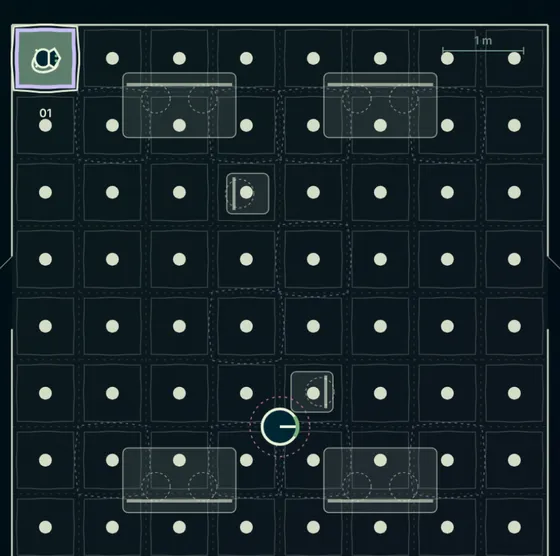
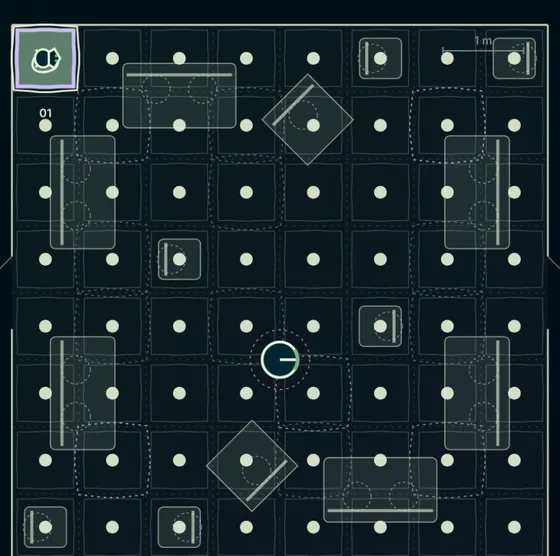
Recapture the project II cover and FIG.02/09/10; add the cohabit rule table
The rule fixes (§14.30) changed the 2-14 free demo and 2-15 runs, so
the cover and three frame sets no longer matched. Event times were
found by running the same bench configs in Node, then captured with
the fake-clock script.

- Home cover: 130 s (three groups seated with tables down, a calico on
  a row of lowered units mid-room).
- FIG.02 (2-14 plan): visitor sits at 1:10; the cat follows two steps,
  goes down to the floor twice, reaches the unit in front of the seat
  at 4:48 and steps onto the table at 5:00.
- FIG.09 (2-15 detail): the pair on the left-hand sofa sit at 8.85 s
  and stand at 1220.35 s; new zoom target.
- FIG.10: front view instead of side view, since with the 20-seat
  layout the sofa backs hide every coffee table from the side.

New doc 项目二_人猫同台_规则总表.md lists every current rule under
people, cats and space, with the numbers and where each number comes
from (sources, calibration, author's decision, geometry, demo value),
plus the event definitions, the comparison spaces, how the case-study
chart differs, and what is not yet in the rules.

Claude-Session: https://claude.ai/code/session_01RPazAerUYRQ9dZ99NQWedh

diff --git a/src/lib/site/case-frames.ts b/src/lib/site/case-frames.ts
@@ -59,18 +59,18 @@ export const CASE_FRAMES: Record<string, FrameSet> = {
     tw: 560,
     cols: 4,
     caption: {
-      zh: '一位访客、一只猫的一场（实验 2-14，平面）。实心圆是坐着的人，绿色虚线是空间给猫铺的路，紫色点线框是座位前方那台',
-      en: 'One visitor and one cat (Lab 2-14, plan). A filled circle is a seated person, the green dashes are the route the space lays for the cat, and the dotted purple square is the unit in front of the seat',
+      zh: '一位访客、一只猫的一场（实验 2-14，平面）。实心圆是坐着的人，绿色虚线是空间给猫铺的路，紫色点线框是座位前方那台。猫走不走、什么时候下地，由猫自己决定',
+      en: 'One visitor and one cat (Lab 2-14, plan). A filled circle is a seated person, the green dashes are the route the space lays for the cat, and the dotted purple square is the unit in front of the seat. Whether the cat follows, and when it goes down to the floor, is up to the cat',
     },
     frames: [
       { file: 't000', t: { zh: '0:00', en: '0:00' }, note: { zh: '访客在走，猫在左上角的台上', en: 'the visitor walks, the cat is on a unit in the top-left corner' } },
-      { file: 't016', t: { zh: '0:16', en: '0:16' }, note: { zh: '坐下，面前那台落成茶几（42 cm），猫脚下铺出第一步', en: 'sits down, the unit in front becomes a coffee table (42 cm) and the first step is laid from the cat' } },
-      { file: 't060', t: { zh: '1:00', en: '1:00' }, note: { zh: '猫沿着递过来的台一步一步走', en: 'the cat walks along the units offered, one at a time' } },
-      { file: 't160', t: { zh: '2:40', en: '2:40' }, note: { zh: '路在右上角拐下来', en: 'the route turns down at the top right' } },
-      { file: 't200', t: { zh: '3:20', en: '3:20' }, note: { zh: '猫往座位这边下来', en: 'the cat comes down towards the seat' } },
-      { file: 't220', t: { zh: '3:40', en: '3:40' }, note: { zh: '离座位前方那台还差一步', en: 'one step from the unit in front of the seat' } },
-      { file: 't240', t: { zh: '4:00', en: '4:00' }, note: { zh: '猫到了座位前方那台', en: 'the cat reaches the unit in front of the seat' } },
-      { file: 't270', t: { zh: '4:30', en: '4:30' }, note: { zh: '访客起身离开，桌子收回，猫下了台', en: 'the visitor leaves, the table goes up, the cat has come down off the units' } },
+      { file: 't071', t: { zh: '1:11', en: '1:11' }, note: { zh: '在中间那把餐椅上坐下，面前那台落成餐桌（74 cm），猫脚下铺出第一步', en: 'sits on the dining chair in the middle, the unit in front becomes a table (74 cm) and the first step is laid from the cat' } },
+      { file: 't100', t: { zh: '1:40', en: '1:40' }, note: { zh: '猫沿着递过来的台走了两步', en: 'the cat has walked two of the units offered' } },
+      { file: 't160', t: { zh: '2:40', en: '2:40' }, note: { zh: '猫自己跳下了地，空间把它身边那台落下，等它跳回来', en: 'the cat jumps down to the floor on its own, and the space lowers the unit beside it for it to climb back' } },
+      { file: 't175', t: { zh: '2:55', en: '2:55' }, note: { zh: '猫在地上走到另一头，从那里上了台，路改从这里铺', en: 'the cat crosses the room on the floor and climbs up at the far end, and the route is laid again from there' } },
+      { file: 't283', t: { zh: '4:43', en: '4:43' }, note: { zh: '又下了一次地之后，猫回到访客身后那台，路绕到他面前那台还要三步', en: 'after one more trip to the floor the cat is back on the unit behind the visitor, three steps from the unit in front of him' } },
+      { file: 't288', t: { zh: '4:48', en: '4:48' }, note: { zh: '猫到了座位前方那台', en: 'the cat reaches the unit in front of the seat' } },
+      { file: 't300', t: { zh: '5:00', en: '5:00' }, note: { zh: '猫又挪上了桌子，就在访客面前', en: 'the cat then steps onto the table, right in front of the visitor' } },
     ],
   },
   // FIG.03 · 一条带：四张键谱同一次收缩（Lab 2-1）
@@ -171,7 +171,7 @@ export const CASE_FRAMES: Record<string, FrameSet> = {
       { file: 'o5', t: { zh: '方', en: 'square' } },
     ],
   },
-  // FIG.09 · 在房间里（Lab 2-15，前排沙发，放大）：落下、成形、收回
+  // FIG.09 · 在房间里（Lab 2-15，左边那张双人沙发，放大）：落下、成形、收回。2026-11-08 按规则审阅后的规则重截（§14.30）
   'room-cycle': {
     project: 'letting-agent',
     lab: '2-15',
@@ -180,19 +180,19 @@ export const CASE_FRAMES: Record<string, FrameSet> = {
     tw: 480,
     cols: 3,
     caption: {
-      zh: '前排沙发上两位访客坐下又起身，面前那台落下当茶几再收回（实验 2-15，局部）',
-      en: 'Two visitors on the front sofa sit down and later stand, and the unit in front of them comes down as a coffee table and goes back up (Lab 2-15, detail)',
+      zh: '左边那张双人沙发上，同组两位访客坐下，面前那台落下当茶几；二十分钟后两人起身，桌子收回（实验 2-15，局部）',
+      en: 'Two visitors in one party sit down on the left-hand sofa and the unit in front of them comes down as a coffee table; twenty minutes later they stand and it goes back up (Lab 2-15, detail)',
     },
     frames: [
-      { file: 't011_00', t: { zh: '0:11.0', en: '0:11.0' }, note: { zh: '两人走到沙发前，面前的单元还收在天花板下', en: 'two visitors reach the sofa, the unit in front of it still stowed under the ceiling' } },
-      { file: 't011_45', t: { zh: '0:11.5', en: '0:11.5' }, note: { zh: '坐下，面前那台沿芯落下', en: 'they sit, and the unit in front comes down its core' } },
-      { file: 't011_90', t: { zh: '0:11.9', en: '0:11.9' }, note: { zh: '落到茶几高度，收缩成形', en: 'at coffee-table height it contracts and forms' } },
-      { file: 't012_50', t: { zh: '0:12.5', en: '0:12.5' }, note: { zh: '茶几成形', en: 'the coffee table has formed' } },
-      { file: 't140_80', t: { zh: '2:20.8', en: '2:20.8' }, note: { zh: '两人起身，桌子往上收。左边沙发上的人身边那台抽中了整圈两层', en: 'they stand, and the table rises. The unit beside the visitor on the left sofa came down as two levels all round' } },
-      { file: 't142_60', t: { zh: '2:22.6', en: '2:22.6' }, note: { zh: '收回天花板下', en: 'back under the ceiling' } },
+      { file: 't008_75', t: { zh: '0:08.8', en: '0:08.8' }, note: { zh: '两人走到沙发前，面前的单元还收在天花板下', en: 'two visitors reach the sofa, the unit in front of it still stowed under the ceiling' } },
+      { file: 't009_20', t: { zh: '0:09.2', en: '0:09.2' }, note: { zh: '坐下，面前那台沿芯落下', en: 'they sit, and the unit in front comes down its core' } },
+      { file: 't009_65', t: { zh: '0:09.7', en: '0:09.7' }, note: { zh: '落到茶几高度，收缩成形', en: 'at coffee-table height it contracts and forms' } },
+      { file: 't010_25', t: { zh: '0:10.3', en: '0:10.3' }, note: { zh: '茶几成形', en: 'the coffee table has formed' } },
+      { file: 't1220_85', t: { zh: '20:20.9', en: '20:20.9' }, note: { zh: '两人坐了二十分钟后起身，桌子往上收', en: 'after twenty minutes they stand, and the table rises' } },
+      { file: 't1222_65', t: { zh: '20:22.7', en: '20:22.7' }, note: { zh: '收回天花板下，一只橘猫在两人脚边的地上', en: 'back under the ceiling, with a ginger cat on the floor at their feet' } },
     ],
   },
-  // FIG.10 · 两种用法（Lab 2-15 侧视）
+  // FIG.10 · 两种用法（Lab 2-15 正视；2026-11-08 由侧视改正视，20 座布置下侧视里的茶几都被沙发靠背挡住）
   'two-uses': {
     project: 'letting-agent',
     lab: '2-15',
@@ -200,10 +200,10 @@ export const CASE_FRAMES: Record<string, FrameSet> = {
     h: 536,
     tw: 1008,
     caption: {
-      zh: '侧视剖面（实验 2-15，第 100 秒）。沙发前落成茶几的单元台面离地 0.42 m。给猫落的三台这一刻都抽中了半圈有顶的两层（下台 0.90 m），猫坐在其中一台的下台上。其余单元收在天花板下',
-      en: 'Side section (Lab 2-15, at 100 s). Units that came down as coffee tables in front of the sofas sit 0.42 m above the floor. The three units lowered for cats all drew two levels roofed over half (the lower at 0.90 m), and a cat sits on the lower platform of one of them. The rest are stowed under the ceiling',
+      zh: '正视剖面（实验 2-15，第 100 秒）。中间偏左那台落成了茶几，台面离地 0.42 m。给猫落的三台成了上下两层（下台 0.90 m），两只猫坐在下台上。其余单元收在天花板下',
+      en: 'Front section (Lab 2-15, at 100 s). The unit left of centre came down as a coffee table, 0.42 m above the floor. The three units lowered for cats formed two levels (the lower at 0.90 m), and two cats sit on the lower platforms. The rest are stowed under the ceiling',
     },
-    frames: [{ file: 't100-side', t: { zh: '1:40 · 侧视', en: '1:40 · side view' } }],
+    frames: [{ file: 't100-front', t: { zh: '1:40 · 正视', en: '1:40 · front view' } }],
   },
 
   // ─── 项目一（轮回机器）─────────────────────────────────────────────────────

diff --git a/项目二_人猫同台_规则总表.md b/项目二_人猫同台_规则总表.md
@@ -1,0 +1,156 @@
+# 项目二 · 人猫同台：现行规则总表
+
+2026-11-08 整理（作者「统计目前所有的规则，包括人的规则、猫的规则，还有空间的规则」）。只整理现有规则，不加新规则。
+
+**适用范围**：现行规则 = Lab 2-14 自由演示、Lab 2-15、标准场景研究（`scripts/cohabit/guide-effect.mjs`）共用的那一套。具体配置是「走 · 站 · 坐」规则 · 64 台方形单元铺满整间房 · 20 座标准布置 · 6 人 4 猫 · 一坐 10–30 分钟，以及 11-08 规则审阅后改的四处（§14.30）。案例页对照图和「正文对照」四钮用的是早一版，差别列在第五节。
+
+**数从哪来**一栏的写法：
+- **资料**：有文献或标准出处，出处在代码注释和 项目二_人猫同台lab.md 里。
+- **标定**：拿一个实验的读数反推出来的，只说明能复现那个实验。
+- **作者定**：作者拍板的设计决定。
+- **几何**：由尺寸推出来。
+- **演示值**：没有数据，先给一个能跑的数。
+
+代码出处：`src/lib/space/cohabit.ts`（平面模型：人、猫、单元）、`src/lib/space/cohabit-solid.ts`（2-15 立体那一层：高度与成形）。
+
+---
+
+## 总则（五条，作者 2026-10-04 / 10-06）
+
+| 编号 | 规则 | 在模型里的意思 |
+|---|---|---|
+| R1 | 空间只写单元 | 空间能做的只有让单元落下、收回、换高度、让开某几条带，不直接搬人、不直接搬猫 |
+| R2 | 个体只读代价 | 人和猫只看两样东西：走得过去吗（通行代价），待在这儿难受吗（停留代价） |
+| R3 | 去向自己选 | 空间递过来一台，猫走不走仍按猫自己的几率；人去哪也是人自己挑 |
+| R4 | 只按事件评 | 空间好不好只看四类相遇事件（第四节），不看人猫走了多远之类 |
+| R5 | 谁都不被困住 | 一台要落成墙时，如果会让本来有路到门的人变得没路，就把它钉在墙线以下（11-08 起只拦这种，§14.30） |
+
+---
+
+## 一、人（访客）
+
+| 规则 | 具体怎么做 | 数 | 数从哪来 |
+|---|---|---|---|
+| 在场的人 | 开场就在房间里，整场不进不出 | 标准 6 人，上限 12 | 作者定（访客进出待作者） |
+| 身体 | 一个过道交叉点同一时刻只站一个人；下一个点有人就原地等，等满就绕路 | 身体宽 0.44 m · 等 1.5 s | 几何 · 演示值 |
+| 走 | 沿过道（格线）走最短路，绕开对人是墙的台 | 0.7 m/s | 演示值（Lab 2-11） |
+| 错身 | 一个交叉点四周的单元都收着、又不在家具里，就是空地，走着的人可以从站在那儿的人身边过去（只路过，不停） | — | 作者定（10-28）。已知毛病：偶尔两人叠在一点上一两秒（§14.30） |
+| 等门 | 前面挡路的带还没收开，就在门口等；等太久另选路 | 4 s | 演示值 |
+| 被台角顶到就挪开 | 收不回的台角（猫在上面）顶进站着的人身体，人挪到最近能站的点 | — | 作者定（10-25） |
+| 结伴 | 约七成结伴来，多是两人；同伴一起走、一起停、一起看同一只猫、一起坐 | 70% | 资料（Moussaïd 等 2010） |
+| 同伴站多近 | 领头站着时，同伴站在离他不超过熟人距离的点；领头坐着时，同伴在他座位 1.3 m 内 | 0.92 m · 1.3 m | 资料（Sorokowska 等 2017）· 演示值 |
+| 同伴坐哪 | 一组人挑彼此相距不超过 1.6 m 的几个空座一起坐（一张双人沙发两座相距约 0.6 m） | 1.6 m | 几何 |
+| 同伴再找座 | 同伴没坐上（座被抢、在门口等太久改了路），每站满一段就在领头座位 1.6 m 内再找一次空座 | 每 3–12 s 一次 | 11-08 改（§14.30） |
+| 离陌生人多远 | 挑站位和座位时，离陌生人能有 1.35 m 就留 1.35 m，不行至少 1.0 m，再不行取最远；选定以后别人走近也不走 | 1.35 m · 1.0 m | 资料（Sorokowska 等 2017 · Küpper & Seyfried 2023 · Felipe & Sommer 1966） |
+| 三种状态 | 走 · 站（停在一个点）· 坐（在座位上）。空间只对站和坐有反应（见第三节） | — | 作者定（10-07） |
+| 站着停多久 | 每停一站的时长 | 3–12 s | 演示值 |
+| 停完去哪 | 先按几率去坐（有空座、且不是刚从座位起身）；不坐就按几率去看一只随机的猫（站到离它 1.5 m 内的点）；都没抽中就随便挑一个点 | 去坐 35% · 去看猫 50% | 演示值 |
+| 看猫站多久 | 走到猫旁边以后站着看 | 10–30 s | 演示值 |
+| 坐多久 | 坐下后坐满这么久才起身；起身时座位入口有人站着就再坐一会儿 | 10–30 分钟 · 再坐 2 s | 店家计时（一次到访 30–60 分钟，常订 1–2 小时；没有研究量过）· 演示值 |
+| 坐着看哪 | 看 3 m 内最近的那只猫，身子跟着转；附近没猫就面朝座位的朝向 | 3 m | 演示值 |
+| 站着看哪 | 去看猫时视线锁住那只猫；别的时候每 1.5–6 s 看向别处（身体前方 ±110°，三成回看正前方），走着时看前方 | — | 演示值（头的转动范围取常识） |
+| 不理猫的时候 | 没有：访客坐着、站着都一直看着最近的猫，没有看手机、聊天不理猫的时段 | — | 待作者（审阅第 2 条：要一个比例，资料里没有） |
+
+---
+
+## 二、猫（住户猫）
+
+| 规则 | 具体怎么做 | 数 | 数从哪来 |
+|---|---|---|---|
+| 在场的猫 | 开场按种子散放在单元上，彼此离开至少 2 个格距；整场不进不出 | 标准 4 只，上限 8 | 作者定（11-08） |
+| 身体与步速 | 身体半径 · 走的速度 | 0.14 m · 0.55 m/s | 演示值（Lab 2-12） |
+| 住在哪 | 台上或地面都行。在台上只走落满的台，脚下那台一直落着；它身下和它正要去的那几条带不会为人让开 | — | 作者定（10-08） |
+| 日常节奏 | 坐 3 s → 卧 18 s → 一半几率换个地方（相邻的台、下地或上台），否则接着坐 | 3 s · 18 s · 50% | 演示值（Lab 2-12） |
+| 上台还是下地 | 每次决定去哪、要退开时，先按几率选台上还是地面：身边 1.5 m 内人越多越想上台 | 上台几率：身边 0 人 62% · 1 人 73% · 2 人 82% · 3 人 88% | 标定（Hirsch 等 2025：有固定层架的猫咖、6 人时猫约 49% 的时间在高处）。人多更想上台的力度没有实测 |
+| 上台怎么上 | 只挑 2 m 内此刻能落下来的台，走到台下等它落好再上；能借沙发、椅子跳上去的等 1 s，从地面直接跳的多等 10 s；等不到就算了 | 2 m · 1 s · +10 s · 最多等 10 s | 演示值 · 资料（Sicuto de Oliveira 等 2015：猫不用挂在 1 m 高的箱子，方向） |
+| 换台 | 要去的那台先落满才过去；空间不给（10 s 内没落下）就另选；过去会让台角顶到站着的人就先不过去 | 预备 1 s · 最多等 10 s | 演示值 |
+| 人太近难受（停留代价） | 1 m 内有人就算难受，攒满能忍的时长就退开：台上退到离人最远的相邻台（没有就挪到台面远端），地面上走到离人最远的地方，或上一台比现在离人远的台 | 1 m · 没人看它时忍 60 s · 有人看着忍 480 s | 资料（Mertens & Turner 1988 的 1 m 档）· 标定（同一实验） |
+| 退开之后 | 一段时间里不靠近人，也不去离人 1 m 以内的地方 | 30 s | 标定 |
+| 被人看着时靠近 | 有人看着它（不在走、3 m 内、脸朝着猫 ±25°，坐着的也算），每隔至少 1 s 按几率靠过去：多数停在 0.75 m，少数走到跟前。台上的猫沿落着的台走过去；台送不到离那人 0.3 m 以内，就下地走过去 | 10% · 停在 0.75 m 的占 80% · 0.3 m | 标定（Mertens & Turner 1988 主动条件：1 m 内约 66% 的时间、接触约 33%） |
+| 没人看时靠近 | 每秒按几率走到最近一位静止访客 0.75 m 处（3 m 内） | 每秒 0.5% | 标定（同上，被动条件：1 m 外约 78%，接触约 2%） |
+| 靠近之后 | 待一阵子后按几率走开，否则留下坐卧 | 待 6 s 后 20% 走开 | 标定 |
+| 看回去 | 有人看它时，转头看那个人 | — | 演示值 |
+| 空间递过来的台 | 坐满 3 s，旁边有一台空间刚为它落下来的（没别的猫占），一半几率挪过去；换地方时优先走递过来的那台；地面上的猫也一半几率跳上递过来的那台 | 50% | 作者定（R3：走不走是猫的事）· 演示值 |
+| 猫和猫 | 彼此不打交道，只是不去别的猫占着、订下或正要跳上的那台 | — | 演示值 |
+| 喜欢藏起来 | 没有：平面模型不知道哪台在立体里成了有顶的两层，猫不会特地去那里 | — | 待作者（§14.27） |
+
+---
+
+## 三、空间（单元）
+
+### 3.1 单元会做什么（平面模型，2-14、2-15 和研究都按它）
+
+| 规则 | 具体怎么做 | 数 | 数从哪来 |
+|---|---|---|---|
+| 单元 | 64 台方形单元，8 × 8 铺满整间房，平时收在天花板下 | 房间 6.64 m 见方 · 格距 0.83 m · 方台终态边长 0.69 m | 作者定（10-25 方形 · 10-27 铺满） |
+| 家具 | 独立的一层，单元照常挂在家具上方；家具只挡地面上的人。标准布置 20 座（六张双人沙发、两张单人沙发、六把餐椅），会客组靠墙、中间留给猫和走动 | 20 座 | 资料（Sommer & Ross 1958 等，§14.26）· 作者定 |
+| 走着的人 | 不触发任何单元 | — | 作者定（10-07） |
+| 站着看猫的人 | 停住满 3 s 且看着一只猫（3 m 内、视线 ±25°），空间就给那只猫落一步：猫相邻的台里离这个人最近的那台。每停一次只给一次 | 3 s | 作者定 · 演示值 |
+| 坐着的人：引猫 | 从最近一只能来的猫（不在退开后的那段时间里、没被别人引着）脚下，沿单元铺一条路到座位前方那台，一次只落一步，猫走到了再落下一步。座位前方那台 = 坐着的人面前、离座位 1.0–1.5 m 的台；此刻盖在任何坐着的人头顶上的跳过，换下一台；一台都没有就不引 | 1.0–1.5 m | 作者定（10-07）· 资料（1 m = 猫不付停留代价，1.5 m = 共温带外缘）· 11-08 改（§14.30） |
+| 坐着的人：桌子 | 面前那台落下来当桌子。哪一台由几何定：台面盖住座位中线、不盖任何座位上的人头顶、不压家具。沙发、单人沙发：台边离前缘 0.30–0.46 m（茶几）。餐椅：台边离靠背 0.615–0.712 m（餐桌，台边在膝盖前、伸手够得着）。桌高相同的家具共用一台。坐下就落，最后一个人起身就收，有人用着时不换高度 | 0.30–0.46 m · 0.615–0.712 m | 资料（家居惯例 · GB/T 10000 / 13547 人体尺寸 · Lee 等 2019 自动升降桌） |
+| 猫 | 猫脚下那台保持落着；它要去的那台在 1 s 预备时间里落下；地面上的猫要跳上的那台落下 | 1 s | 演示值（Lab 2-12） |
+| 落下与收回的快慢 | 有上面这些理由就落，没有就收回；落得快、收得慢 | 每秒涨 1.5（约 0.7 s 落满）· 退 0.5（约 2 s 收完） | 演示值 |
+| 对人是墙 | 落下过一半的台对人是墙。挡路的带会自己收开（见「让路」），只有收不开的（猫在上面）人才要绕 | 一半 | 演示值 |
+| 不落的台 | 平台会盖到坐着的人头顶的不落，已经落着的收回（平台底 1.08 m，低于坐着时的头顶约 1.25 m）；猫要上的那台如果会顶到站着的人，也先不落 | — | 几何 |
+| 让路：只收挡路的带 | 每台 20 条带。带离人身体不到 0.37 m（身体 0.22 + 让开 0.15），或带的外缘落在人前方约 1.9 m 的路线上，这条带就收回到芯上，人过去后再落回；猫身下（0.24 m 内）和它正要去的那几条带不收 | 20 条 · 0.37 m · 1.9 m · 收约 2 s | 作者定（10-07）· 演示值 |
+| 谁都不被困住（R5） | 一台要落成墙时，如果会让本来有路到门的人变得没路，就钉在墙线以下。因为挡路的带会自己收开，这条在这套配置里几乎不出手 | — | 作者定 · 11-08 改（§14.30） |
+
+### 3.2 立体那一层（只有 2-15 有：多高、成什么形）
+
+| 规则 | 具体怎么做 | 数 | 数从哪来 |
+|---|---|---|---|
+| 落下分两段 | 先沿芯落到工作高度，再收缩成形；收回时反过来。让路的带单独收直，多出来的布收回上夹环 | — | 作者定（10-23 · 10-30） |
+| 桌子多高 | 沙发、单人沙发前的茶几、餐椅前的餐桌 | 0.42 m · 0.74 m | 资料（家居惯例 · GB/T 10000） |
+| 给猫的台多高 | 平台：约站着的人手肘高。两层台：下台高 = 坐着的人眼高减去猫坐着的眼高（猫坐上去，眼睛与坐着的人齐平），上台顶低于站着的人的眼睛 | 平台 1.05 m · 下台 0.90 m · 上台顶 1.48 m | 几何（站上比例模型） |
+| 换高度多快 | 台面从一个高度换到另一个高度的速度；从天花板直接落到目标高度的那一段不受它限 | 0.08 m/s | 资料（电动升降桌快档） |
+| 成什么形 | 当桌子的只成平台；下面的家具比下台底还高（餐椅靠背 0.85 m）的不成两层；其余给猫落的台抽签。在坐着的人 1.5 m 内的：半圈有顶的两层（敞开那半圈朝那个人）60%、整圈两层 15%、平台 25%；别处：20% / 10% / 70%（有顶那半圈朝四条边之一） | 见左 | 演示值（作者 10-30「随机出现各种形态也 ok」） |
+| 台面与布 | 台面 6.5 cm 厚；一条布 338 节，铺出去 168 节，其余卷在上夹环里 | — | 作者定（10-29 · 10-30） |
+| 平面模型知不知道 | 不知道。成什么形只影响画面，猫进有顶那半边也只是画法，读数仍按只有平台算 | — | — |
+
+### 3.3 对照用的几种空间（研究用，不是规则）
+
+| 名字 | 是什么 |
+|---|---|
+| 会动 · 引导开 | 上面全部规则 |
+| 会动 · 引导关 | 不引猫、站着的人也不给一步；单元只给桌子、猫脚下与猫自己要去的那台 |
+| 会动 · 引导关 · 不落桌子 | 再去掉桌子（11-08 加，用来量桌子自己的作用） |
+| 钉死 | 偶数行的单元一直落着、不动；会围住人或台角会切断交叉点到门的那几台不落；没有桌子 |
+| 空房间 | 没有单元，猫只在地面 |
+
+---
+
+## 四、计数（R4 按它评）
+
+人 × 猫逐对记，一对同时只记一次，持续的那几秒也记下来。
+
+| 事件 | 条件 | 数从哪来 |
+|---|---|---|
+| 共视 | 人与猫互相看着：3 m 内，人的视线对准猫 ±25°、猫的视线对准人 ±35°，持续 ≥ 1 s | 站方口径（演示值） |
+| 共温 | 人不在走，猫在他 0.5–1.5 m 内，持续 ≥ 2 s | 正文定义（资料：Mertens & Turner 的 1 m 档、近体距离） |
+| 共触 | 距离 < 0.5 m（人走过猫身边也算） | 正文定义 |
+| 交接 | 人走着穿过猫 1.5 m 内 | 正文定义 |
+| 坐着的共温 / 共触 | 上面两项里人坐着的那部分（11-08 加，报告用） | — |
+
+---
+
+## 五、和其他口径的差别
+
+**案例页对照图与「正文对照」四钮**（用早一版，没跟着改，读数不变）：
+- 单元：圆台，布在房间中部，不铺满。
+- 没有桌子，也没有错身。
+- 访客节奏：站 8–45 s，去坐 50%，一坐 90–240 s。
+- 家具：标准布置 10 座。
+- 11-08 规则审阅改的四处（每人一串随机数、引导现挑台、同伴再找座、R5 只拦会让本来有路的人没路的那台）都没有。
+
+**痕迹规则（旧，台架「规则」开关里的「痕迹」）**：人走过的地面留痕迹，单元跟着痕迹落，空间再把猫的路铺向人多的地方。这是项目的起点，在对照里输给了固定层架（§10），现行规则是第一到第四节写的这套。
+
+---
+
+## 六、还没进规则的（待作者）
+
+- **访客有一部分时间不理猫**（看手机、聊天）：需要一个比例，资料里没有（审阅第 2 条）。
+- **访客进出**：现在整场不进不出。
+- **猫喜欢藏起来**：平面模型不知道哪台成了有顶的两层（§14.27）。
+- **空间读到了感知不到的信息**：空间知道猫还在退开后的那段时间里，也知道猫下一步想去哪台（审阅第 7 条）。
+- **两张餐椅**：第 8、18 座的「座位旁边那台」离座位 1.66 m，在共温带外，前方也找不到不盖人头的台（审阅第 9 条）。
+- **错身叠人**：偶尔两人叠在一个交叉点上一两秒，原因查到了，改法会让人卡死，还没修（§14.30）。

diff --git a/CLAUDE.md b/CLAUDE.md
@@ -73,6 +73,7 @@
 | "改写清单"、"正文哪节改"、"项目二正文口径"、"尚未回答" | 项目二_正文改写清单.md（逐节「现文 · 处置 · 依据」，作者按它重写，模型不代写） |
 | "人猫同台"、"Lab 2-14"、"两种代价/五条规则进仿真"、"四类事件记账"、"三档对照"、"立体演示"、"Lab 2-15" | 项目二_人猫同台lab.md（复用与新写 · 规则逐条出处 · 四类事件口径 · 三档对照实测 · 让位与真实尺度的冲突 · 待作者定；§14 = 立体演示 Lab 2-15：依据 · 带子形状从哪来 · 尺度 · 画法 · 验证） |
 | "2-15 只有平台"、"单元成什么形"、"按用途定形"、"之前的形态研究用上"、"一条带两层台"、"捏分进 2-15"、"形态研究怎么用到 2-15"、"猫的藏身处"、"桌子太厚"、"续坡 / 合腔进 2-15" | 项目二_2-15单元形态方案.md（2026-10-29 方案稿第二轮：同一条 338 节布按方台大小能成的截面（6.5 cm 平台 · 双层缝 0.12–0.24 · 厚台的上限 · 逐带配平偏移 ±0.20 m 纯平移）· 2-6 的半台 / 仅上层仅下层 / 局部连通 / 倾斜怎么按带排进一台 · 2-13 的续坡 / 升台 / 合腔放进 2-15 格子 · 在猫咖里各管什么 · 按用途定形的规则 · 先做哪一步 · 待作者定；图与数 = `node scripts/cohabit/form-draft.mjs <outDir>`，线稿 `项目二_2-15单元形态方案/form-sections.png`、`form-room.png`；10-29 作者让模型自己 review，第一步「台面 6.5 cm」已接进 2-15，其余留着等作者 = §10；10-30 第三轮「前面的形态研究全都用上、按用途定形」= §11：2-1…2-14 逐台去向、2-3 一条带两个结构放进 2-15（两层台间 0.51 m）、圆 ↔ 方在 6.5 cm 台上、目录三形，线稿 `form-uses.png`） |
+| "人猫同台规则总表"、"现在有哪些规则"、"人的规则 / 猫的规则 / 空间的规则" | 项目二_人猫同台_规则总表.md（2026-11-08：现行规则按人 · 猫 · 空间三部分逐条列出，每条写具体做法、数、数从哪来；附计数口径、对照用的空间、与案例页对照图口径的差别、还没进规则的） |
 | "惊飞距离"、"城市鸟文献"、"野生动物平面版参数"、"路过/来看" | 项目二_城市鸟惊飞距离.md（SD/AD/FID 定义 · 量级表 · 人侧修正 · 返回时间 · 95 百分位围栏基准 · 映射到第 10 条余三件；欧洲九城 + 北京小区两张分种表已从全文补齐，树麻雀五城、南京公园、波哥大三篇由用户上传 PDF 存 `项目二参考/文献/` 并已入表） |
 
 ## 定位与边界（网站 IA——用户拍板 2026-07-07，非讨论稿）
@@ -350,7 +351,7 @@
 - **标准场景 6 人 4 猫 · 引导开关的差值 · 猫对高处 / 隐蔽处的偏好（2026-11-08，作者「把猫的上限放开，标准场景改成 6 人 4 猫……不看绝对值看差值……爬高和狭小空间的吸引力是不是设得不够」）**：`COHABIT.MAX_CATS` 3 → 8；`SCENE`（Lab 2-15 开场）6 人 2 猫 → 6 人 4 猫；猫的出发点改按种子散放（`scatterCats`，彼此 ≥ 2 个格距——原来固定第 0、5、10… 台全在房间上部，曾把新旧家具布置的差距从 13% 放大到 25%）。`populateCohabit` 与案例页对照图不动（现行代码重跑 144 个读数与存档逐个相同）；2-14 自由演示开场仍 1 人 1 猫。新研究脚本 `scripts/cohabit/guide-effect.mjs`（同种子五档：引导开两种 / 引导关 `goal: false` / 钉死 / 空房间；配对符号翻转检验 + dz + 自助区间，`stats.mjs` 加 `permPairedP / pairedDz / pairedCI`）。**结果（6 人 4 猫 · 600 s · 32 种子）**：共温引导开比关多 241 s（+12%，p = .023，dz 0.38，赢 20 / 32 种子），共视 +22%（dz ≈ 1），共触无差；人坐 5–15 分钟（900 s）时差值更稳（座位旁边 · 整条路 +20%，dz 0.87，赢 26 / 32）。**高处偏好**：upBias 0.5 → 1.5 → 3、下地阈 0.3 → 0.75 m 各档，猫在台上的时间涨到最多 57%，差值都在 +9% 到 +17% 之间、区间重叠——高处偏好决定猫在哪，不决定引导管不管用；卡差值的是猫自己的节奏（每走近一台 30–40 s、人坐 1–3 分钟）。新房间里上台几率的标定已偏（钉死档只落得下 5 台，台上 22%，§13 的目标 49%）。**隐蔽处偏好在平面模型里为零**（不知道哪台成了两层）。资料（Rochlitz 1998、Podberscek 1991、Hirsch 2025、Kry & Casey 2007、Vinke 2014 等）只给方向。待作者：差值够不够、研究用不用更长的坐、要不要重标上台、隐蔽处要不要进模型。细节 = 项目二_人猫同台lab.md §14.27。
 - **访客一坐 10–30 分钟（2026-11-08，作者「访客坐着的时间应该加长很多，猫咖里的真实顾客不应该是只坐三分钟的」）**：`PACE_DEMO` 一坐 60–180 s → 600–1800 s（站着停、看猫、去坐的几率不动），Lab 2-14 自由演示、2-15 与标准场景研究用它；案例页对照图与「正文对照」四钮仍是 `PACE_STUDY`、读数不变。依据只有店家计时（一次 30–60 分钟、常订 1–2 小时），没有研究量过访客一次坐多久。`guide-effect.mjs` 一场默认 1800 s，加 `SEED0` 分段并行。2-14 自走说明原来误读研究那套时长，改读 `PACE_DEMO`；/lab 规格表「节奏」一行中英同改。守门：节奏那条改卡「300 s 里坐下不起身」，错身那条的节奏钉在 60–180 s。**结果（6 人 4 猫 · 1800 s · 32 种子）**：坐着 87–94%；共温引导开比关多 825 s（+13%，p = .009，dz 0.49，赢 21 / 32），座位旁边 · 整条路 +1088 s（+17%，p < .001，dz 0.81，赢 23 / 32）；猫走到座位前方那台 11.3 对 5.2 次；会动的单元比钉死多 27%、比空房间多 33%；共触分不开。坐得久两边一起涨，差值的比例变化不大。待作者：研究的标准节奏定不定这一套、对照图要不要重跑、要不要加访客进出与更高倍速。细节 = 项目二_人猫同台lab.md §14.28。
 - **2-14 / 2-15 加 ×40 / ×60 · 首页项目二封面重截 · 规则审阅（2026-11-08，作者「加更高的时间倍数档，2-15 封面重新截，review 一下现在的规则」）**：两台时间倍速加 ×40 / ×60（6 人 4 猫实测 2-15 每仿真秒约 5.5 ms、2-14 约 1.8 ms）。首页封面按新场景（20 座、6 人 4 猫、一坐 10–30 分钟）在 130 / 200 / 260 / 350 s 四张里挑了 200 s，`capture.mjs` 的 home-cover 加 `COVER_T` 多时刻挑图用法，默认改 200（MAPPING §78.7；案例页 FIG.09/10 分镜未重截）。规则审阅（子代理通读 + 主会话逐条复核，没改代码）查出三条规则写错：**座位前方那台 20 座里 16 座会盖到邻座头顶**（选台时没查，936–938），邻座有人就落不下来、引导却照样占着那只猫，坐着引猫的步骤 51% 指向被闸住的台——引导开关的差值很可能被它压低；**访客永远在主动看猫**（`ignores` 从不打开），猫几乎总按 M&T 主动条件走；**结伴同伴没坐上就在领头身边站满整段**（只派一次、不再找座），一坐半小时时 36 人里 3 人站 14–15 分钟。另有对照公平性（引导关那档桌子仍在引路、钉死与空房间没桌子；人猫共用一个随机源，同种子配对没配上）、计数口径（共触含路过、逐对累加随座位密度变）、空间读到感知不到的信息（猫的潜伏期与想去哪台）、钉死档开场叠猫、两张餐椅旁边那台超出共温带、R5 只查刚越线的单元。建议先改 1、3 再重跑对照；2 和 5 动研究口径，待作者定。细节 = 项目二_人猫同台lab.md §14.29。
-- **按规则审阅改五条、分五步重跑（2026-11-08，作者「做吧」）**：`cohabit.ts` 四个开关（`streams` 每个访客 / 每只猫一串随机数 · `retarget` 引导每一步现挑一台此刻不盖坐着的人头顶的 · `seatRetry` 同伴没坐上隔一段再找座 · `exitDiff` R5 只拦会让本来有路的人没路的那台），省略 = 单元铺满整间房时开，场地居中那一套（案例页对照图、正文对照四钮）逐位不变（24 组比对）；另修钉死档开场叠猫（36 处 → 0）。改 R5 时查到：坐着的人面前桌子落下后常被判「没路」，原写法这时把所有要落的单元钉在墙线下，标准场景会动档 37% 的时间步如此。研究脚本加「引导关 · 不落桌子」一档与坐着的共温 / 共触，`guide-merge.mjs` 合并分段。五步（6 人 4 猫 · 1800 s · 32 种子）共温「引导开 − 关」：改动前 +825（dz 0.49）→ 拆随机数 +1137（0.96）→ 现挑台 +1242（1.31）→ 同伴找座 +996（0.97，站着的同伴原来也在攒共温）→ R5 +717（0.78，猫到座位前方那台 14 → 22 次，共触差值第一次显著 +9%）；共温 + 共触五步都在 +920 到 +1200，最后 +11%（dz 1.15，28/32）；桌子自己不添共温（原先的 +382 是配对没配上的噪声）。错身叠人原因查到（被路过的人正走向那个点）、改法会卡死人、撤回，守门线 2 → 5 s。封面与 FIG.09/10 未重截。细节 = 项目二_人猫同台lab.md §14.30。
+- **按规则审阅改五条、分五步重跑（2026-11-08，作者「做吧」）**：`cohabit.ts` 四个开关（`streams` 每个访客 / 每只猫一串随机数 · `retarget` 引导每一步现挑一台此刻不盖坐着的人头顶的 · `seatRetry` 同伴没坐上隔一段再找座 · `exitDiff` R5 只拦会让本来有路的人没路的那台），省略 = 单元铺满整间房时开，场地居中那一套（案例页对照图、正文对照四钮）逐位不变（24 组比对）；另修钉死档开场叠猫（36 处 → 0）。改 R5 时查到：坐着的人面前桌子落下后常被判「没路」，原写法这时把所有要落的单元钉在墙线下，标准场景会动档 37% 的时间步如此。研究脚本加「引导关 · 不落桌子」一档与坐着的共温 / 共触，`guide-merge.mjs` 合并分段。五步（6 人 4 猫 · 1800 s · 32 种子）共温「引导开 − 关」：改动前 +825（dz 0.49）→ 拆随机数 +1137（0.96）→ 现挑台 +1242（1.31）→ 同伴找座 +996（0.97，站着的同伴原来也在攒共温）→ R5 +717（0.78，猫到座位前方那台 14 → 22 次，共触差值第一次显著 +9%）；共温 + 共触五步都在 +920 到 +1200，最后 +11%（dz 1.15，28/32）；桌子自己不添共温（原先的 +382 是配对没配上的噪声）。错身叠人原因查到（被路过的人正走向那个点）、改法会卡死人、撤回，守门线 2 → 5 s。同日按新规则重截首页封面（130 s）与 FIG.02 / 09 / 10（FIG.10 侧视改正视，MAPPING §78.8），并整理出现行规则总表（项目二_人猫同台_规则总表.md：人 · 猫 · 空间三部分，每条写做法、数、数从哪来）。细节 = 项目二_人猫同台lab.md §14.30。
 
 ## Lab 编号对照（2026-09-03 收纳 · 2026-09-13 改按项目编号）
 
